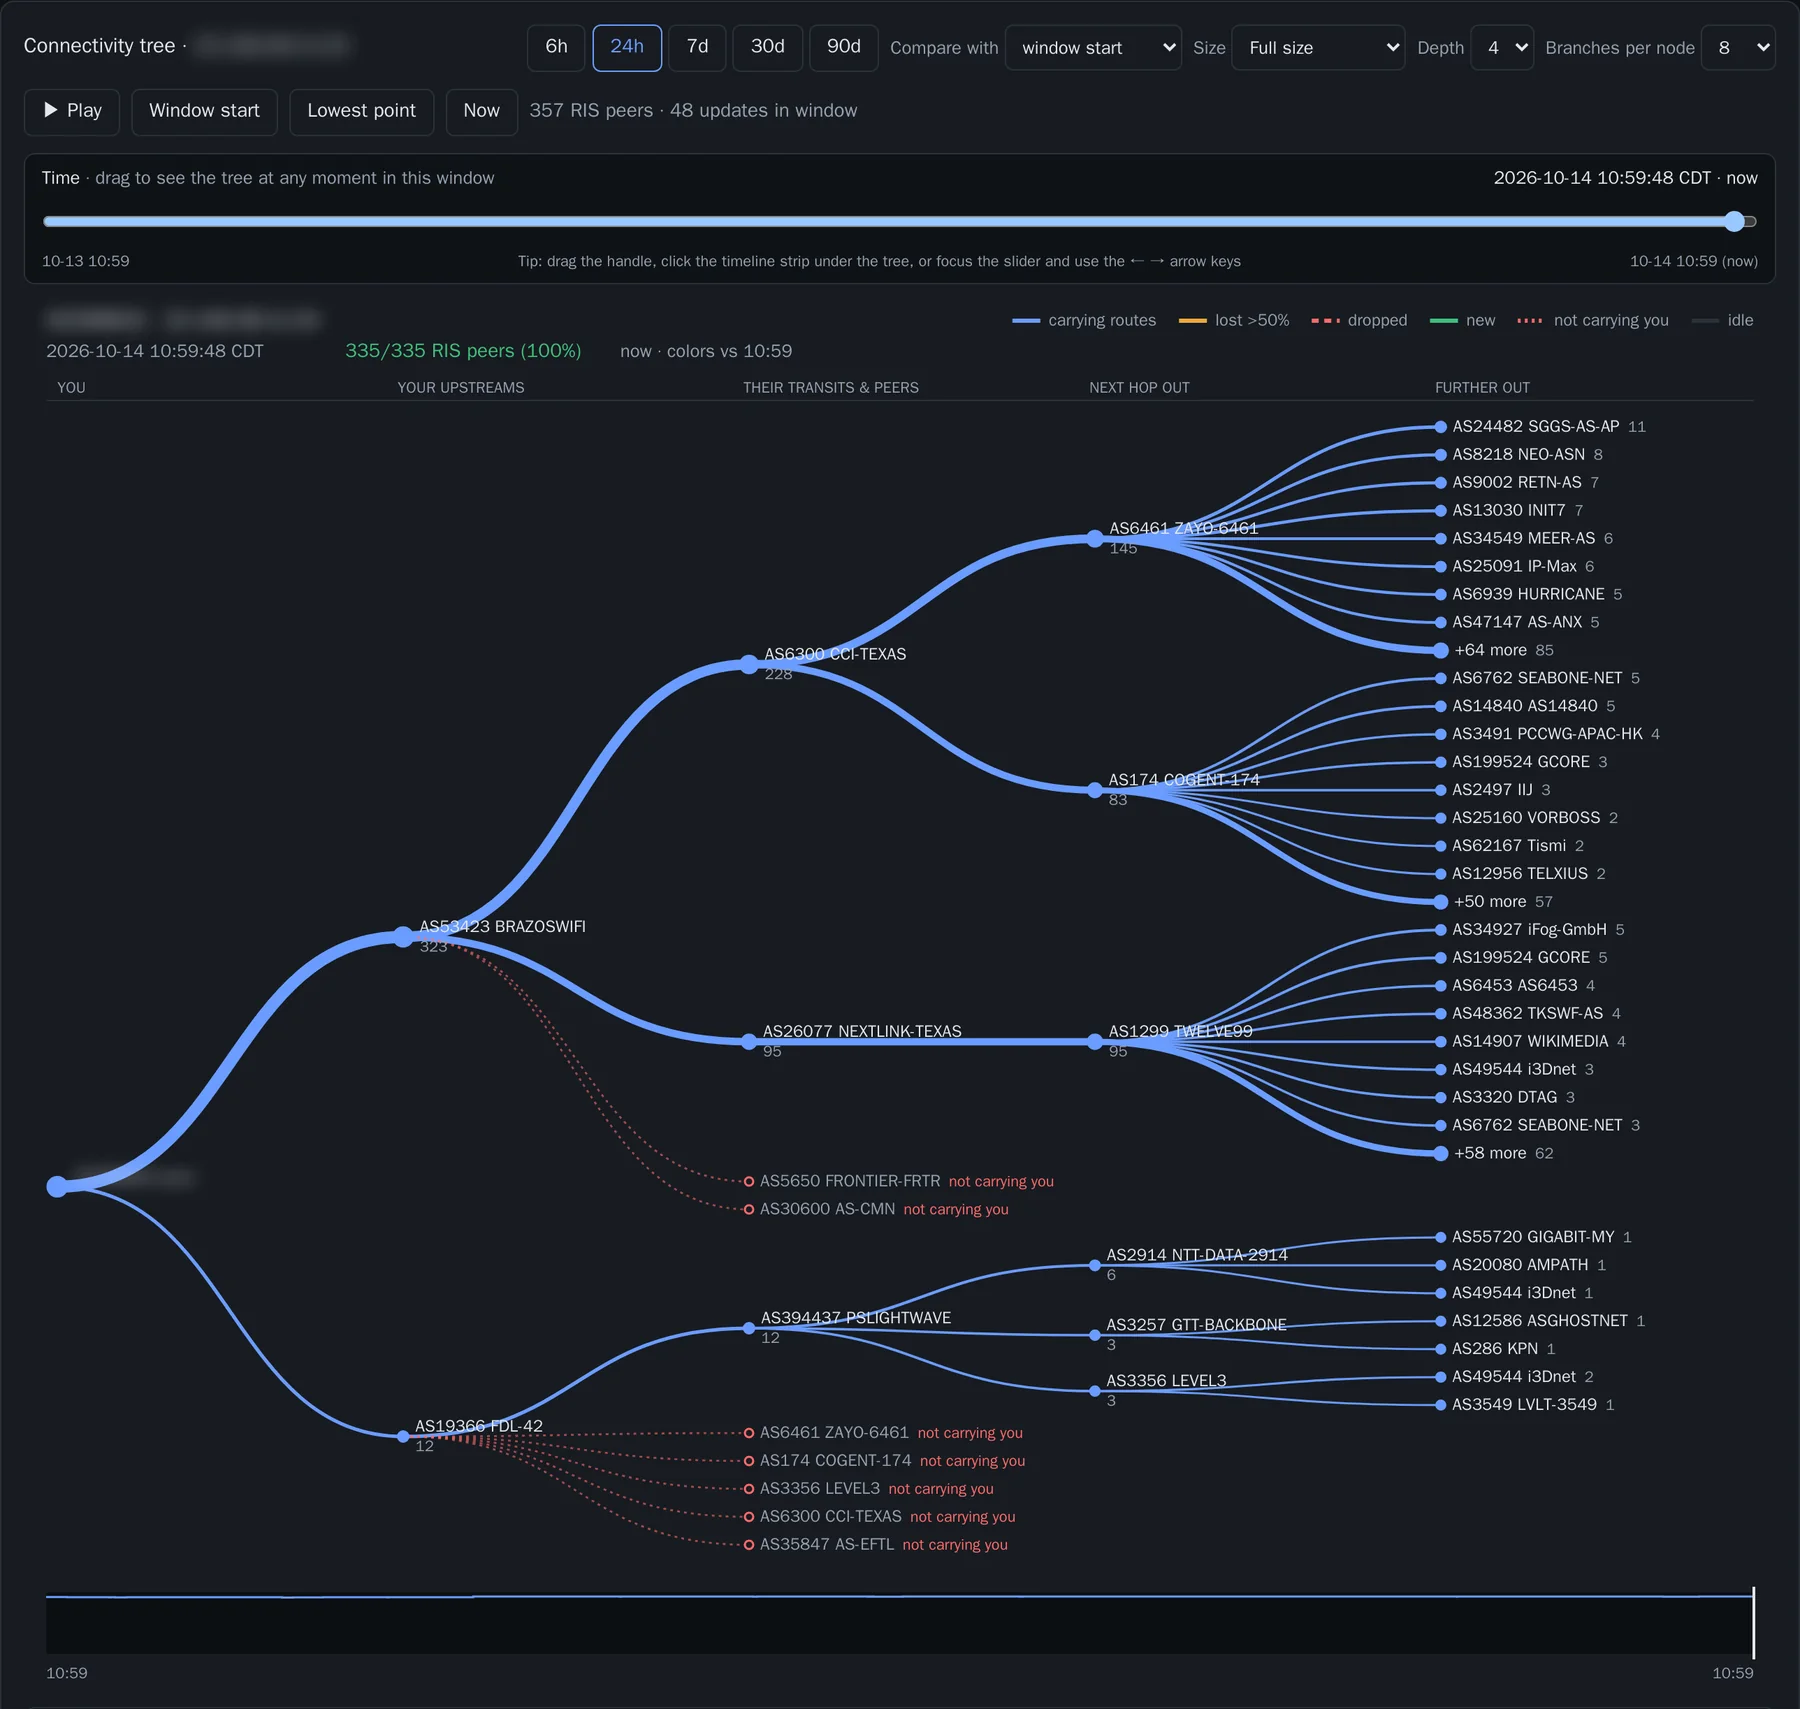
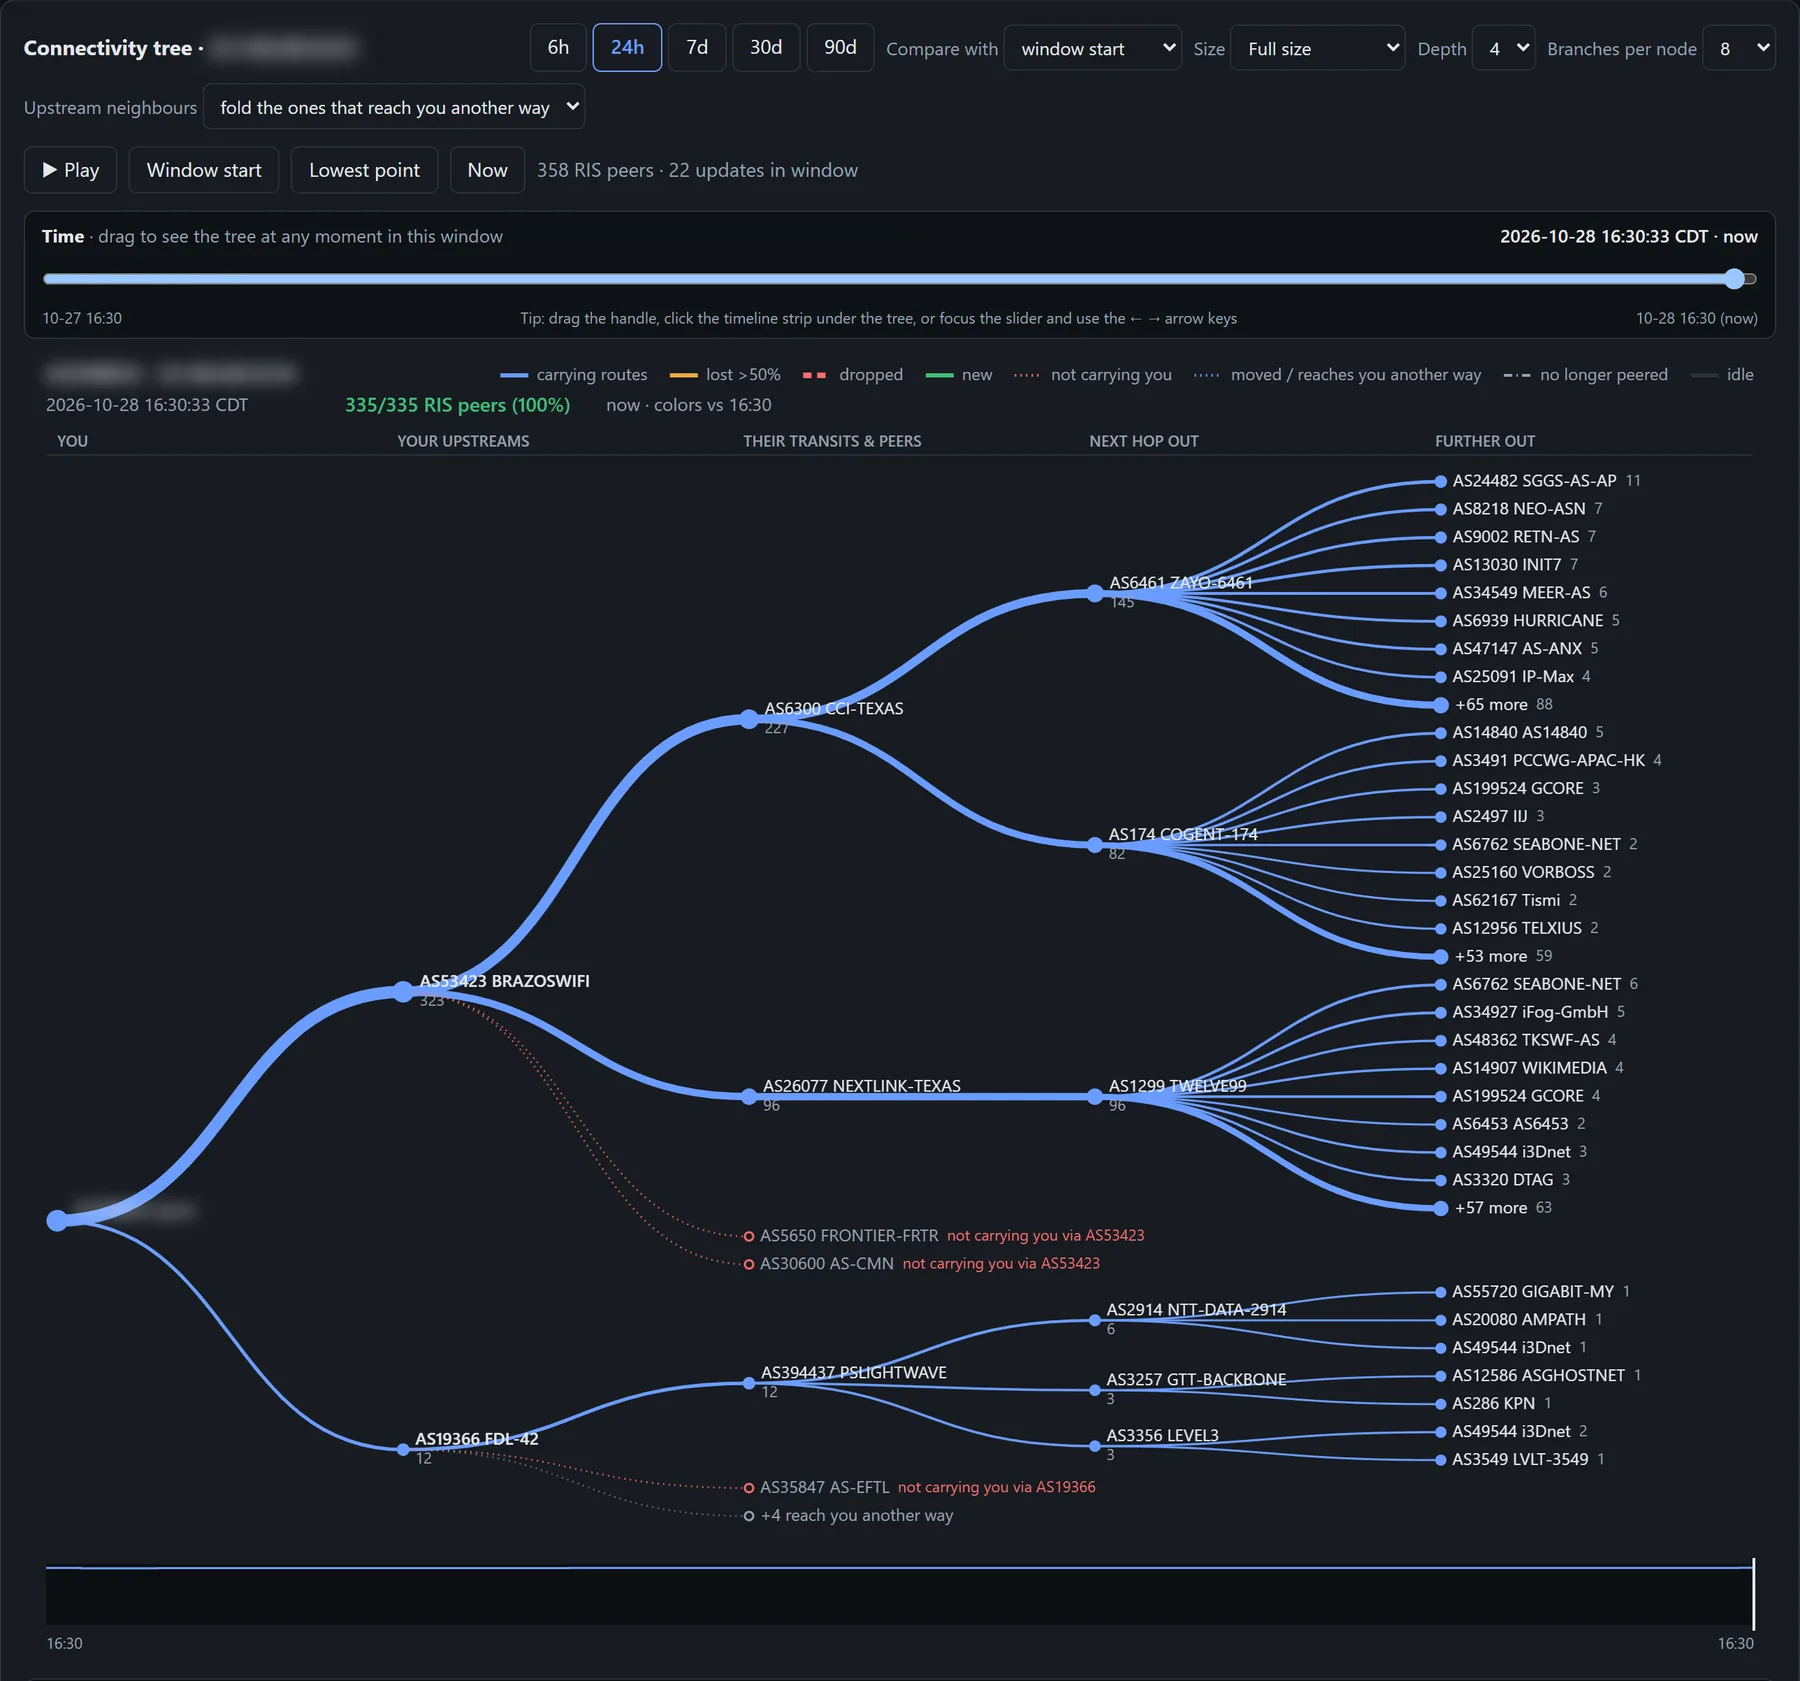
README screenshots: Path finder, BGP data, Events filters, an upstream-down event, events replayed together, a neighbour's page
- docs/images: light and dark screenshots (ASN, prefix, host name and router
  addresses blurred) of what was added since the 1.2.1 gallery: the Path finder
  tree and its traceroute, BGP data's Paths and Changes tabs, the Events page with
  its filters, an upstream-down event page, several events replayed together, and
  a neighbouring network's page. The connectivity tree screenshot is retaken for
  the "moved" and "reaches you another way" states.
- README: the gallery is 8 rows of two tiles. CHANGELOG: noted under Unreleased.

diff --git a/README.md b/README.md
@@ -52,12 +52,16 @@ networks.
 
 <table>
 <tr><td width="50%"><picture><source media="(prefers-color-scheme: dark)" srcset="docs/images/dashboard-dark.webp"><img src="docs/images/dashboard-light.webp" alt="Dashboard"></picture><br><sub>Live visibility, upstreams and outages at a glance</sub></td><td width="50%"><picture><source media="(prefers-color-scheme: dark)" srcset="docs/images/multi-dark.webp"><img src="docs/images/multi-light.webp" alt="Multi-prefix dashboard"></picture><br><sub>Several prefixes: problems first, one line each</sub></td></tr>
-<tr><td width="50%"><picture><source media="(prefers-color-scheme: dark)" srcset="docs/images/event-dark.webp"><img src="docs/images/event-light.webp" alt="Event page"></picture><br><sub>Every event's evidence, ready for a provider ticket</sub></td><td width="50%"><picture><source media="(prefers-color-scheme: dark)" srcset="docs/images/multi-tree-dark.webp"><img src="docs/images/multi-tree-light.webp" alt="Connectivity tree with several prefixes"></picture><br><sub>One strand per prefix, so a filter that drops just one stands out</sub></td></tr>
-<tr><td width="50%"><picture><source media="(prefers-color-scheme: dark)" srcset="docs/images/atlas-dark.webp"><img src="docs/images/atlas-light.webp" alt="RIPE Atlas traceroute map"></picture><br><sub>RIPE Atlas: where traceroutes toward you go, and where they stop</sub></td><td width="50%"><picture><source media="(prefers-color-scheme: dark)" srcset="docs/images/registry-dark.webp"><img src="docs/images/registry-light.webp" alt="Registry checks"></picture><br><sub>IRR, as-sets, RPKI and simulated upstream filters</sub></td></tr>
-<tr><td width="50%"><picture><source media="(prefers-color-scheme: dark)" srcset="docs/images/tree-dark.webp"><img src="docs/images/tree-light.webp" alt="Connectivity tree"></picture><br><sub>Who carries you, and who doesn't</sub></td><td width="50%"><picture><source media="(prefers-color-scheme: dark)" srcset="docs/images/alerts-dark.webp"><img src="docs/images/alerts-light.webp" alt="Alert settings"></picture><br><sub>Every alert type with its own thresholds</sub></td></tr>
+<tr><td width="50%"><picture><source media="(prefers-color-scheme: dark)" srcset="docs/images/tree-dark.webp"><img src="docs/images/tree-light.webp" alt="Connectivity tree"></picture><br><sub>Who carries you, and who doesn't: a neighbour that reaches you another way isn't flagged</sub></td><td width="50%"><picture><source media="(prefers-color-scheme: dark)" srcset="docs/images/upstream-down-dark.webp"><img src="docs/images/upstream-down-light.webp" alt="An upstream-down event, with the path tree during it"></picture><br><sub>An upstream going down: what changed behind it, and where your paths went</sub></td></tr>
+<tr><td width="50%"><picture><source media="(prefers-color-scheme: dark)" srcset="docs/images/pathfinder-dark.webp"><img src="docs/images/pathfinder-light.webp" alt="Path finder"></picture><br><sub>Path finder: the known AS paths to any network, with the one your traffic takes (dashed where RIS can't see it)</sub></td><td width="50%"><picture><source media="(prefers-color-scheme: dark)" srcset="docs/images/pathfinder-trace-dark.webp"><img src="docs/images/pathfinder-trace-light.webp" alt="Path finder traceroute"></picture><br><sub>The traceroute from your server: each hop's network and exchange, and where the delay builds up</sub></td></tr>
+<tr><td width="50%"><picture><source media="(prefers-color-scheme: dark)" srcset="docs/images/data-paths-dark.webp"><img src="docs/images/data-paths-light.webp" alt="BGP data: paths grouped by the way in"></picture><br><sub>BGP data: how the internet reaches you, grouped by the way in</sub></td><td width="50%"><picture><source media="(prefers-color-scheme: dark)" srcset="docs/images/data-changes-dark.webp"><img src="docs/images/data-changes-light.webp" alt="BGP data: what changed, in bursts"></picture><br><sub>What changed: every peer's old → new path in bursts, changed hops marked, linked to the event</sub></td></tr>
+<tr><td width="50%"><picture><source media="(prefers-color-scheme: dark)" srcset="docs/images/events-dark.webp"><img src="docs/images/events-light.webp" alt="Events page with filters"></picture><br><sub>Events: open or closed, by type and severity, ready to replay</sub></td><td width="50%"><picture><source media="(prefers-color-scheme: dark)" srcset="docs/images/replay-together-dark.webp"><img src="docs/images/replay-together-light.webp" alt="Several events replayed together"></picture><br><sub>Several events in one replay, the quiet time between them cut out (✂)</sub></td></tr>
+<tr><td width="50%"><picture><source media="(prefers-color-scheme: dark)" srcset="docs/images/event-dark.webp"><img src="docs/images/event-light.webp" alt="Event page"></picture><br><sub>Every event's evidence, ready for a provider ticket</sub></td><td width="50%"><picture><source media="(prefers-color-scheme: dark)" srcset="docs/images/neighbour-dark.webp"><img src="docs/images/neighbour-light.webp" alt="A neighbouring network's page"></picture><br><sub>A neighbour you didn't expect: what it is to you, in one click</sub></td></tr>
+<tr><td width="50%"><picture><source media="(prefers-color-scheme: dark)" srcset="docs/images/multi-tree-dark.webp"><img src="docs/images/multi-tree-light.webp" alt="Connectivity tree with several prefixes"></picture><br><sub>One strand per prefix, so a filter that drops just one stands out</sub></td><td width="50%"><picture><source media="(prefers-color-scheme: dark)" srcset="docs/images/atlas-dark.webp"><img src="docs/images/atlas-light.webp" alt="RIPE Atlas traceroute map"></picture><br><sub>RIPE Atlas: where traceroutes toward you go, and where they stop</sub></td></tr>
+<tr><td width="50%"><picture><source media="(prefers-color-scheme: dark)" srcset="docs/images/registry-dark.webp"><img src="docs/images/registry-light.webp" alt="Registry checks"></picture><br><sub>IRR, as-sets, RPKI and simulated upstream filters</sub></td><td width="50%"><picture><source media="(prefers-color-scheme: dark)" srcset="docs/images/alerts-dark.webp"><img src="docs/images/alerts-light.webp" alt="Alert settings"></picture><br><sub>Every alert type with its own thresholds</sub></td></tr>
 </table>
 
-<sub>Shown in your GitHub theme (light or dark). The network's own ASN and prefix are blurred.</sub>
+<sub>Shown in your GitHub theme (light or dark). The network's own ASN, prefix and router addresses are blurred.</sub>
 
 ## Quick start
 

diff --git a/CHANGELOG.md b/CHANGELOG.md
@@ -6,6 +6,9 @@ anything, and major releases may need you to read the notes before upgrading.
 
 ## [Unreleased]
 
+### Changed
+- README: screenshots of the Path finder (the tree and the traceroute), BGP data (Paths and Changes), the Events page with its filters, an upstream-down event, several events replayed together and a neighbouring network's page; the connectivity tree screenshot now shows the "moved" and "reaches you another way" states.
+
 ## [1.6.3] - 2026-10-28
 
 ### Added
